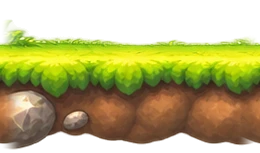
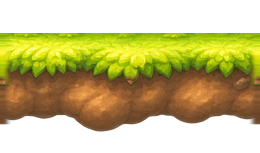
Erpien gate art (test branch): V3 13 + P5 fixes 3, draw-only gate ground fixes; P5 stone/home rejected
- assets/terrain/erpien/gate_*.webp (16) replaced; originals in docs/art_v2/erpien/superseded_p5/
- renderer.js (drawing only): gate bodyTopOffset 96 -> 174 (no line under the top strip), gate cliff body inset
  0.36 -> 0.13 (no step under the cliffs), gate depth shade fades in; cache key ?v=p5g1 for gate images
- P5 stone_* / home_* not applied (flat, code-drawn look, lost the original arches and lighting)
- regression subset 5/5, no page errors; report docs/art_v2/erpien/P5_INTEGRATION_QA.md

diff --git a/renderer.js b/renderer.js
@@ -31,7 +31,7 @@ const STRUCTURE_ASSET_LIST = [
 
 // Image cache keys (not rewritten by tools/release.py): bump a key when its images change. v1.8.3: the repainted
 // Monatium steel parts and tower structures (art renewal P3-A) get their own key so no browser keeps the old ones.
-function terrainAssetQ(k) { return /^monatium\/steel_/.test(k) ? '?v=p3a2' : '?v=31R'; }
+function terrainAssetQ(k) { return /^monatium\/steel_/.test(k) ? '?v=p3a2' : /^erpien\/gate_/.test(k) ? '?v=p5g1' : '?v=31R'; }
 const STRUCTURE_ASSET_Q = '?v=p3a2';
 
 const TERRAIN_ASSET_LIST = [
@@ -151,7 +151,7 @@ const TERRAIN_SPECS = {
     folder: 'erpien', prefix: 'gate_',
     thinWalk: 43, thinScale: 0.50,
     smallWalk: 32, medWalk: 44,
-    groundWalk: 58, groundScale: 0.54, bodyTopOffset: 96,
+    groundWalk: 58, groundScale: 0.54, bodyTopOffset: 174,   /* v1.8.4: P5 gate body starts right under the 175px top strip */
     decorations: [
       { key: 'erpien/decoration_gate_flower', walkOffset: 54, scale: 0.52 }
     ]
@@ -1283,7 +1283,8 @@ function drawGroundVisual(a, drawX, drawY) {
   // [v7 §2.2 & §2.3]:
   // - For `forest` (`grass`) and `village`, `ground_cliff_left/right` (150x295) has its opaque dirt shaft at cols 12..138 (0.09 inset, NOT 0.36!).
   // - On `step_up_join`, extend the lower step's dirt body 22px into the higher step so there is zero vertical seam between steps!
-  const cliffInsetRatio = (mat === 'grass' || mat === 'village') ? 0.09 : 0.36;
+  /* v1.8.4: the repainted Erpien gate cliffs (art renewal P5) run straight down about 13% in from their outer edge */
+  const cliffInsetRatio = (mat === 'grass' || mat === 'village') ? 0.09 : (mat === 'gate' ? 0.13 : 0.36);
   const bodyX1 = leftJoint.kind === 'wall_butt_join'
     ? (drawX - 6)
     : (leftJoint.kind === 'step_up_join'
@@ -1393,7 +1394,8 @@ function drawGroundVisual(a, drawX, drawY) {
     if (vx2 > vx1 && bottomY > y0) {
       ctx.save();
       const dg = ctx.createLinearGradient(0, y0, 0, y0 + 300);
-      dg.addColorStop(0, 'rgba(24, 18, 12, 0.26)');
+      /* v1.8.4: on the repainted Erpien gate ground the shade fades in instead of starting as a hard dark line */
+      dg.addColorStop(0, mat === 'gate' ? 'rgba(24, 18, 12, 0)' : 'rgba(24, 18, 12, 0.26)');
       dg.addColorStop(0.12, 'rgba(24, 18, 12, 0.04)');
       dg.addColorStop(0.55, 'rgba(18, 14, 10, 0.20)');
       dg.addColorStop(1, 'rgba(12, 10, 8, 0.42)');

diff --git a/docs/art_v2/erpien/P5_INTEGRATION_QA.md b/docs/art_v2/erpien/P5_INTEGRATION_QA.md
@@ -1,0 +1,80 @@
+# 에르피엔 P5 적용·검수 (`DUDU_ERPIEN_P5_34ASSETS_CLAUDE_261122.zip`)
+
+- 날짜: 2026-11-22
+- 지시문: `GPT_ERPIEN_P5_BRIEF.md`, 적용 지시 `CLAUDE_P5_APPLY_QA.md`
+- 브랜치: `erpien-p5` (main 7a87158에서 분기). main에는 넣지 않았다.
+
+| 묶음 | 판정 |
+| --- | --- |
+| 숲 관문 16개(V3 13 + P5 보정 3) | **승인 후보.** 브랜치에 적용. 그리기 코드 3곳을 함께 맞췄다 |
+| 도시 석조 `stone_*` 16개 | **반려.** 원본 유지 |
+| 성 내부 `home_*` 15개 | **반려.** 원본 유지 |
+
+## 1. 자동 검사 (34개)
+
+| 항목 | 결과 |
+| --- | --- |
+| 크기 | 34/34 원본과 같음 |
+| 밟는 선 | 34/34 표와 같음: 석조 95·46·42·60, 성 내부 69·12, 관문 43·58 |
+| 선명도 | 34/34 원본 이상 |
+| 긴 발판 이음매 | 석조·성 내부 좌→가운데→우 차이 0. 관문 V3 가운데↔새 `inner_strip` 0 |
+| 땅 몸통 | 불투명 100%, 상하좌우 이음매 0 |
+| 몸통 시작 줄 | 석조 118줄 차이 1.9, 성 내부 560줄 차이 0.7 |
+| `inner_strip` 아래 윤곽 | 관문 123줄 평평, 석조 200~201줄 |
+| 절벽 안쪽↔몸통 색 차이 (기준 3) | 석조 좌 1.9 / 우 **6.3**, 성 내부 좌 3.1 / 우 **8.8**, 관문 좌 **6.2** / 우 3.2 |
+| 제작 방식 | 동봉 `build_p5.py` 기준: 석조·성 내부는 사각형, 다각형, 노이즈 질감을 코드로 그린 것에 생성 이미지 일부를 합성했다 |
+
+## 2. 게임 화면 (같은 카메라, 왼쪽 원본 / 오른쪽 P5)
+
+에르피엔 A 7곳, B 7곳을 찍었다(`p5/stone_home_rejected_sheet_A.jpg`, `_B.jpg`). 관문은 `p5/gate_final_*.jpg`에 있다.
+
+**석조 (반려)**
+- 원본의 돌 아치 장식띠와 벽 위 처마 몰딩이 사라졌다. 평평한 사각 판에 윤곽선만 있다.
+- 떠 있는 발판이 상자처럼 보인다(B1, B2). 성벽 길 벽은 블록 무늬가 단조롭다(B0, A3).
+- 원본은 이미 공식 도시 배경과 같은 크림색 회화풍이라 바꿀 이득이 없다.
+
+**성 내부 (반려)**
+- 원본의 햇빛 줄무늬, 깊이감 있는 아치 패널 명암이 사라졌다. 연한 선 그림처럼 납작하다(B5, B6).
+- 세로 줄과 아치 선이 반복 단위에서 어긋나 보인다. 4200px 긴 땅에서 특히 눈에 띈다.
+
+**숲 관문 (승인 후보)**
+- 짧은 떠 있는 발판 아래의 끊긴 이음이 없어졌다(`gate_final_ledges.jpg`).
+- 아래 코드 3곳을 고친 뒤, 땅 위쪽 가로선과 절벽 아래 계단이 없어졌다(`gate_final_zoom.jpg`).
+- 수인숲 새 그림과 같은 계열이다.
+- 남은 것 (경미)
+  - 땅 양 끝 절벽 조각(높이 약 190px)이 몸통과 살짝 다른 톤의 판으로 보인다(관문 좌 6.2).
+  - 두두 발이 풀 테두리 윗선보다 0~5px 아래에 있다(±2px 4/10). 풀에 살짝 잠긴 모습이다.
+
+## 3. 접지 (게임 측정, 발판 윗면 − 두두 발 줄)
+
+| 재질 | 원본 | P5 |
+| --- | --- | --- |
+| 관문 땅·발판 | 10/10 ±2 이내 | 4/10 (−5~0, 풀 테두리) |
+| 석조 땅 11 | 11/11 | 11/11 |
+| 석조 발판 57 | 51/57 | 56/57 |
+| 성 내부 땅 4 | 4/4 | 4/4 |
+| 성 내부 발판 6 | 4/6 | 5/6 |
+
+석조와 성 내부는 접지 자체는 좋았다. 반려 이유는 그림의 질이다.
+
+## 4. 브랜치에 들어간 변경
+
+**그림:** `assets/terrain/erpien/gate_*.webp` 16개(V3 13 + P5 3). 원본은 `docs/art_v2/erpien/superseded_p5/`에 보관했다.
+
+**코드** (`renderer.js`, 그리기만 바꿨다. `bodyTopOffset`과 `cliffInsetRatio`는 `renderer.js` 안에서만 쓰인다)
+
+| 대상 | 전 | 후 | 이유 |
+| --- | --- | --- | --- |
+| `TERRAIN_SPECS.gate.bodyTopOffset` | 96 | 174 | 몸통을 윗단(175px) 바로 아래부터 그린다. 96이면 윗단 마지막 줄 아래에 몸통 중간 줄이 와서 밝기 40 차이의 가로선이 생겼다 |
+| 관문 절벽 아래 몸통 시작 비율 | 0.36 | 0.13 | 새 절벽은 바깥에서 13% 안쪽까지 곧게 내려간다. 0.36이면 절벽 아래에 계단이 생겼다 |
+| 관문 땅 깊이 그림자 | 시작 26% 어둡게 | 시작 0%에서 서서히 | 새 밝은 흙에서 시작선이 줄로 보였다 |
+| 이미지 캐시 키 | `?v=31R` | `?v=p5g1` (관문 16개만) | 예전 그림과 섞이지 않게 |
+
+**확인:**
+- 회귀 테스트 일부 5/5 통과: 문법, 부팅, 수집물, 모드 열기, 맵 전환
+- 페이지 오류 0: 데스크톱, 휴대폰 가로
+
+## 5. 결론
+
+- 관문 16개는 미술 승인을 받으면 main에 합쳐 다음 버전에 넣는다.
+- 석조와 성 내부는 원본을 유지한다. 원본이 공식 배경과 이미 잘 맞으므로 에르피엔 지형 작업은 관문으로 마무리하는 것을 제안한다.
